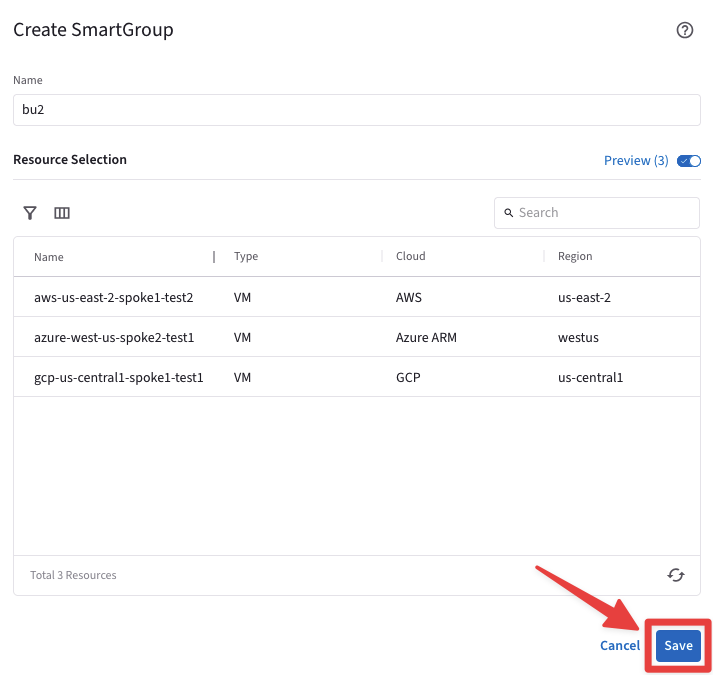
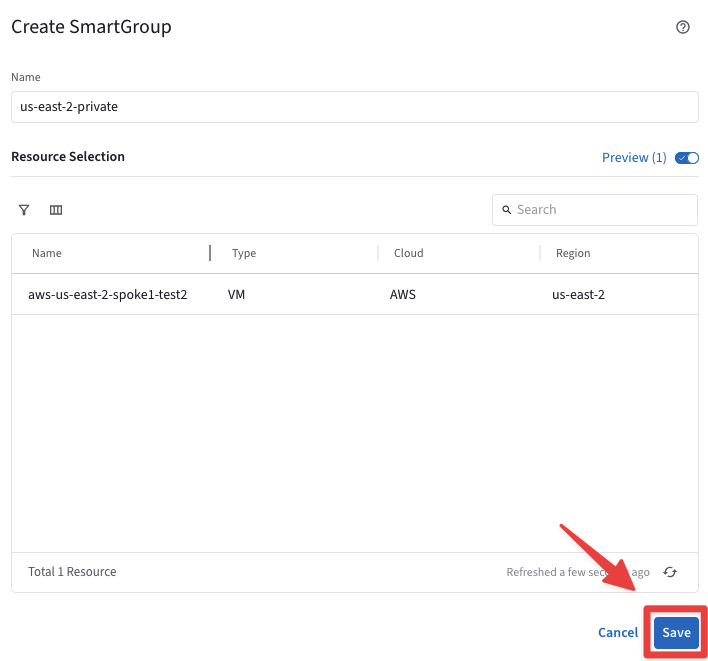
update for pro

diff --git a/ace_pro/docs/lab11.md b/ace_pro/docs/lab11.md
@@ -28,7 +28,7 @@ In this lab, you will implement the following requirements across all three CSPs
 
 - Create a Smart Group named `"bu1"` tagged with `"environment"` that identifies the following instances: **_aws-us-east-2-spoke1-test1_** and **_azure-west-us-spoke1-test1_**.
 
-- Create a Smart Group named `"us-east-2-private"` that uses the tag `"Name" = "aws-us-east-2-spoke1-test1"` that identifies the following instance: **_aws-us-east-2-spoke1-test2_**
+- Create a Smart Group named `"us-east-2-private"` that uses the tag `"Name" = "aws-us-east-2-spoke1-test2"` that identifies the following instance: **_aws-us-east-2-spoke1-test2_**
 
 - Create a Smart Group named `"azure-spoke2"` that uses the tag `"IP/CDR" = "192.168.2.0/24"` that identifies the following instance: **_azure-west-us-spoke2_**
 
@@ -38,7 +38,7 @@ In this lab, you will implement the following requirements across all three CSPs
 
 - Create an `intra-rule` allowing SSH traffic within bu1.
 
-- Create an `inter-rule` allowing ICMP traffic <ins>from</ins> `azure-spoke2` <ins>to</ins> `bu1 only`.
+- Create an `inter-rule` allowing ICMP traffic <ins>from</ins> `azure-spoke2` <ins>to</ins> `bu1` only.
 
 ```{figure} images/lab10-initial.png
 ---
@@ -50,10 +50,7 @@ Initial Topology Lab 11
 
 ## 3. Smart Groups Creation
 
-Create two Smart Groups and classify each one using the CSP tag `"environment"`: 
-
-- Assign the name `"bu1"` to the Smart Group **#1**.
-- Assign the name `"bu2"` to the Smart Group **#2**.
+Let’s begin `micro-segmentation` by creating the Smart Groups.
 
 ### 3.1 Smart Group “bu1”
 
@@ -92,7 +89,7 @@ align: center
 Resources that match the condition
 ```
 
-### 3.2 Smart Group “bu2”
+### 3.2 Smart Group “us-east-2-private”
 
 Create another Smart Group clicking on the `"+ SmartGroup"` button.
 
@@ -105,10 +102,24 @@ New Smart Group
 
 Ensure these parameters are entered in the pop-up window `"Create SmartGroup"`:
 
-- **Name**: <span style='color:#479608'>bu2</span>
-- **Matches all conditions (AND)/environment**: <span style='color:#479608'>bu2</span>
+- **Name**: <span style='color:#479608'>us-east-2-private</span>
+- **Matches all conditions (AND)/environment**: <span style='color:#479608'>Name: aws-us-east-2-spoke1-test2</span>
 
 Before clicking on **SAVE**, discover what instances match the condition, turning on the knob `"Preview"`.
+
+```{figure} images/lab1081-smart6.png
+---
+align: center
+---
+us-east-2-private
+```
+
+```{figure} images/lab1080-smart6.png
+---
+align: center
+---
+Tag: Name
+```
 
 ```{figure} images/lab10-smart6.png
 ---
@@ -117,17 +128,65 @@ align: center
 Resource Selection
 ```
 
-The CoPilot shows that there are three instances that match the condition:
+The CoPilot shows that there is one instance that matches the condition:
 
 - **aws-us-east2-spoke1-test2** in AWS
-- **azure-us-west-spoke2-test1** in Azure
-- **gcp-us-central1-spoke1-test1** in GCP
 
 ```{figure} images/lab10-smart7.png
 ---
 align: center
 ---
-Resources that match the condition
+Resource that matches the condition
+```
+
+### 3.3 Smart Group “azure-spoke2”
+
+Create another Smart Group clicking on the `"+ SmartGroup"` button.
+
+```{figure} images/lab10-smart5.png
+---
+align: center
+---
+New Smart Group
+```
+
+Ensure these parameters are entered in the pop-up window `"Create SmartGroup"`:
+
+- **Name**: <span style='color:#479608'>azure-spoke2</span>
+- **Matches all conditions (AND)/environment**: <span style='color:#479608'>bu2</span>
+
+Before clicking on **SAVE**, discover what instances match the condition, turning on the knob `"Preview"`.
+
+```{figure} images/lab1081-smart6.png
+---
+align: center
+---
+us-east-2-private
+```
+
+```{figure} images/lab1080-smart6.png
+---
+align: center
+---
+Tag: Name
+```
+
+```{figure} images/lab10-smart6.png
+---
+align: center
+---
+Resource Selection
+```
+
+The CoPilot shows that there is one instance that matches the condition:
+
+- **aws-us-east2-spoke1-test2** in AWS
+
+```{figure} images/lab10-smart7.png
+---
+align: center
+---
+Resource that matches the condition
 ```
 
 At this stage, you have created logical containers that do not affect the existing routing domain, thanks to the `Connection Policy`  applied in **Lab 3**. Now, it's time to carefully define Distributed Cloud Firewall (DCF) rules to manage East-West traffic.
